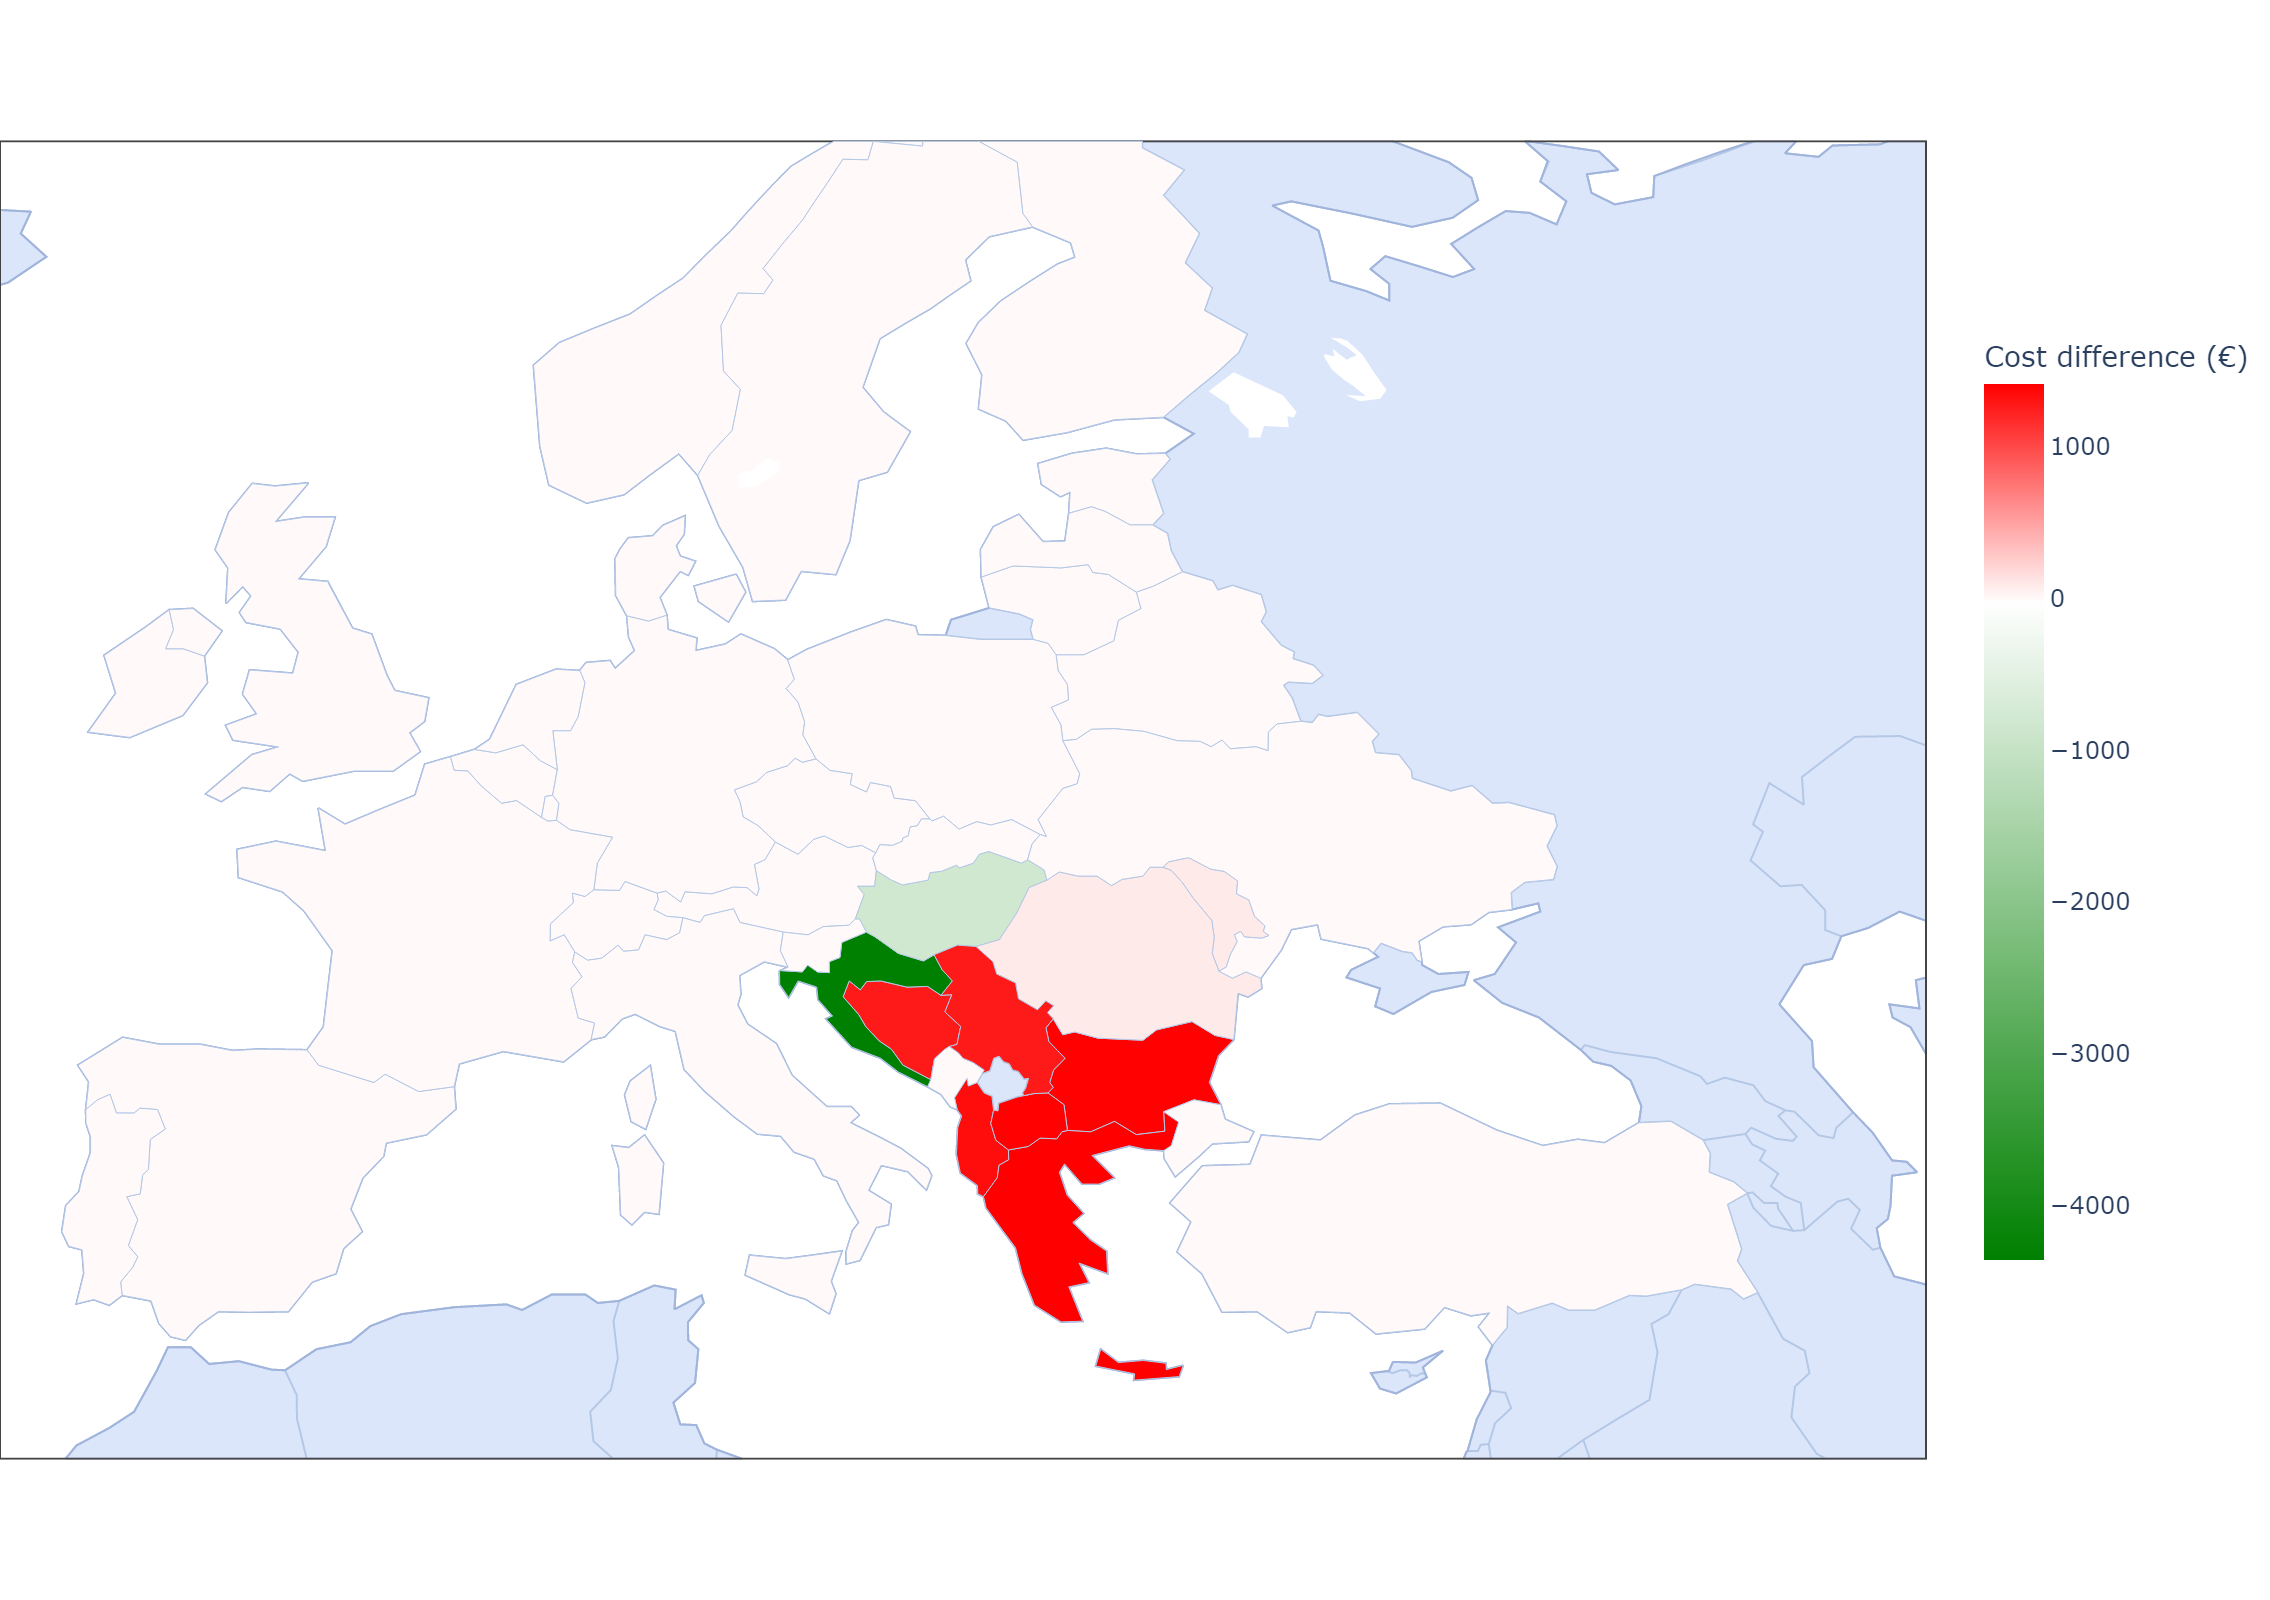
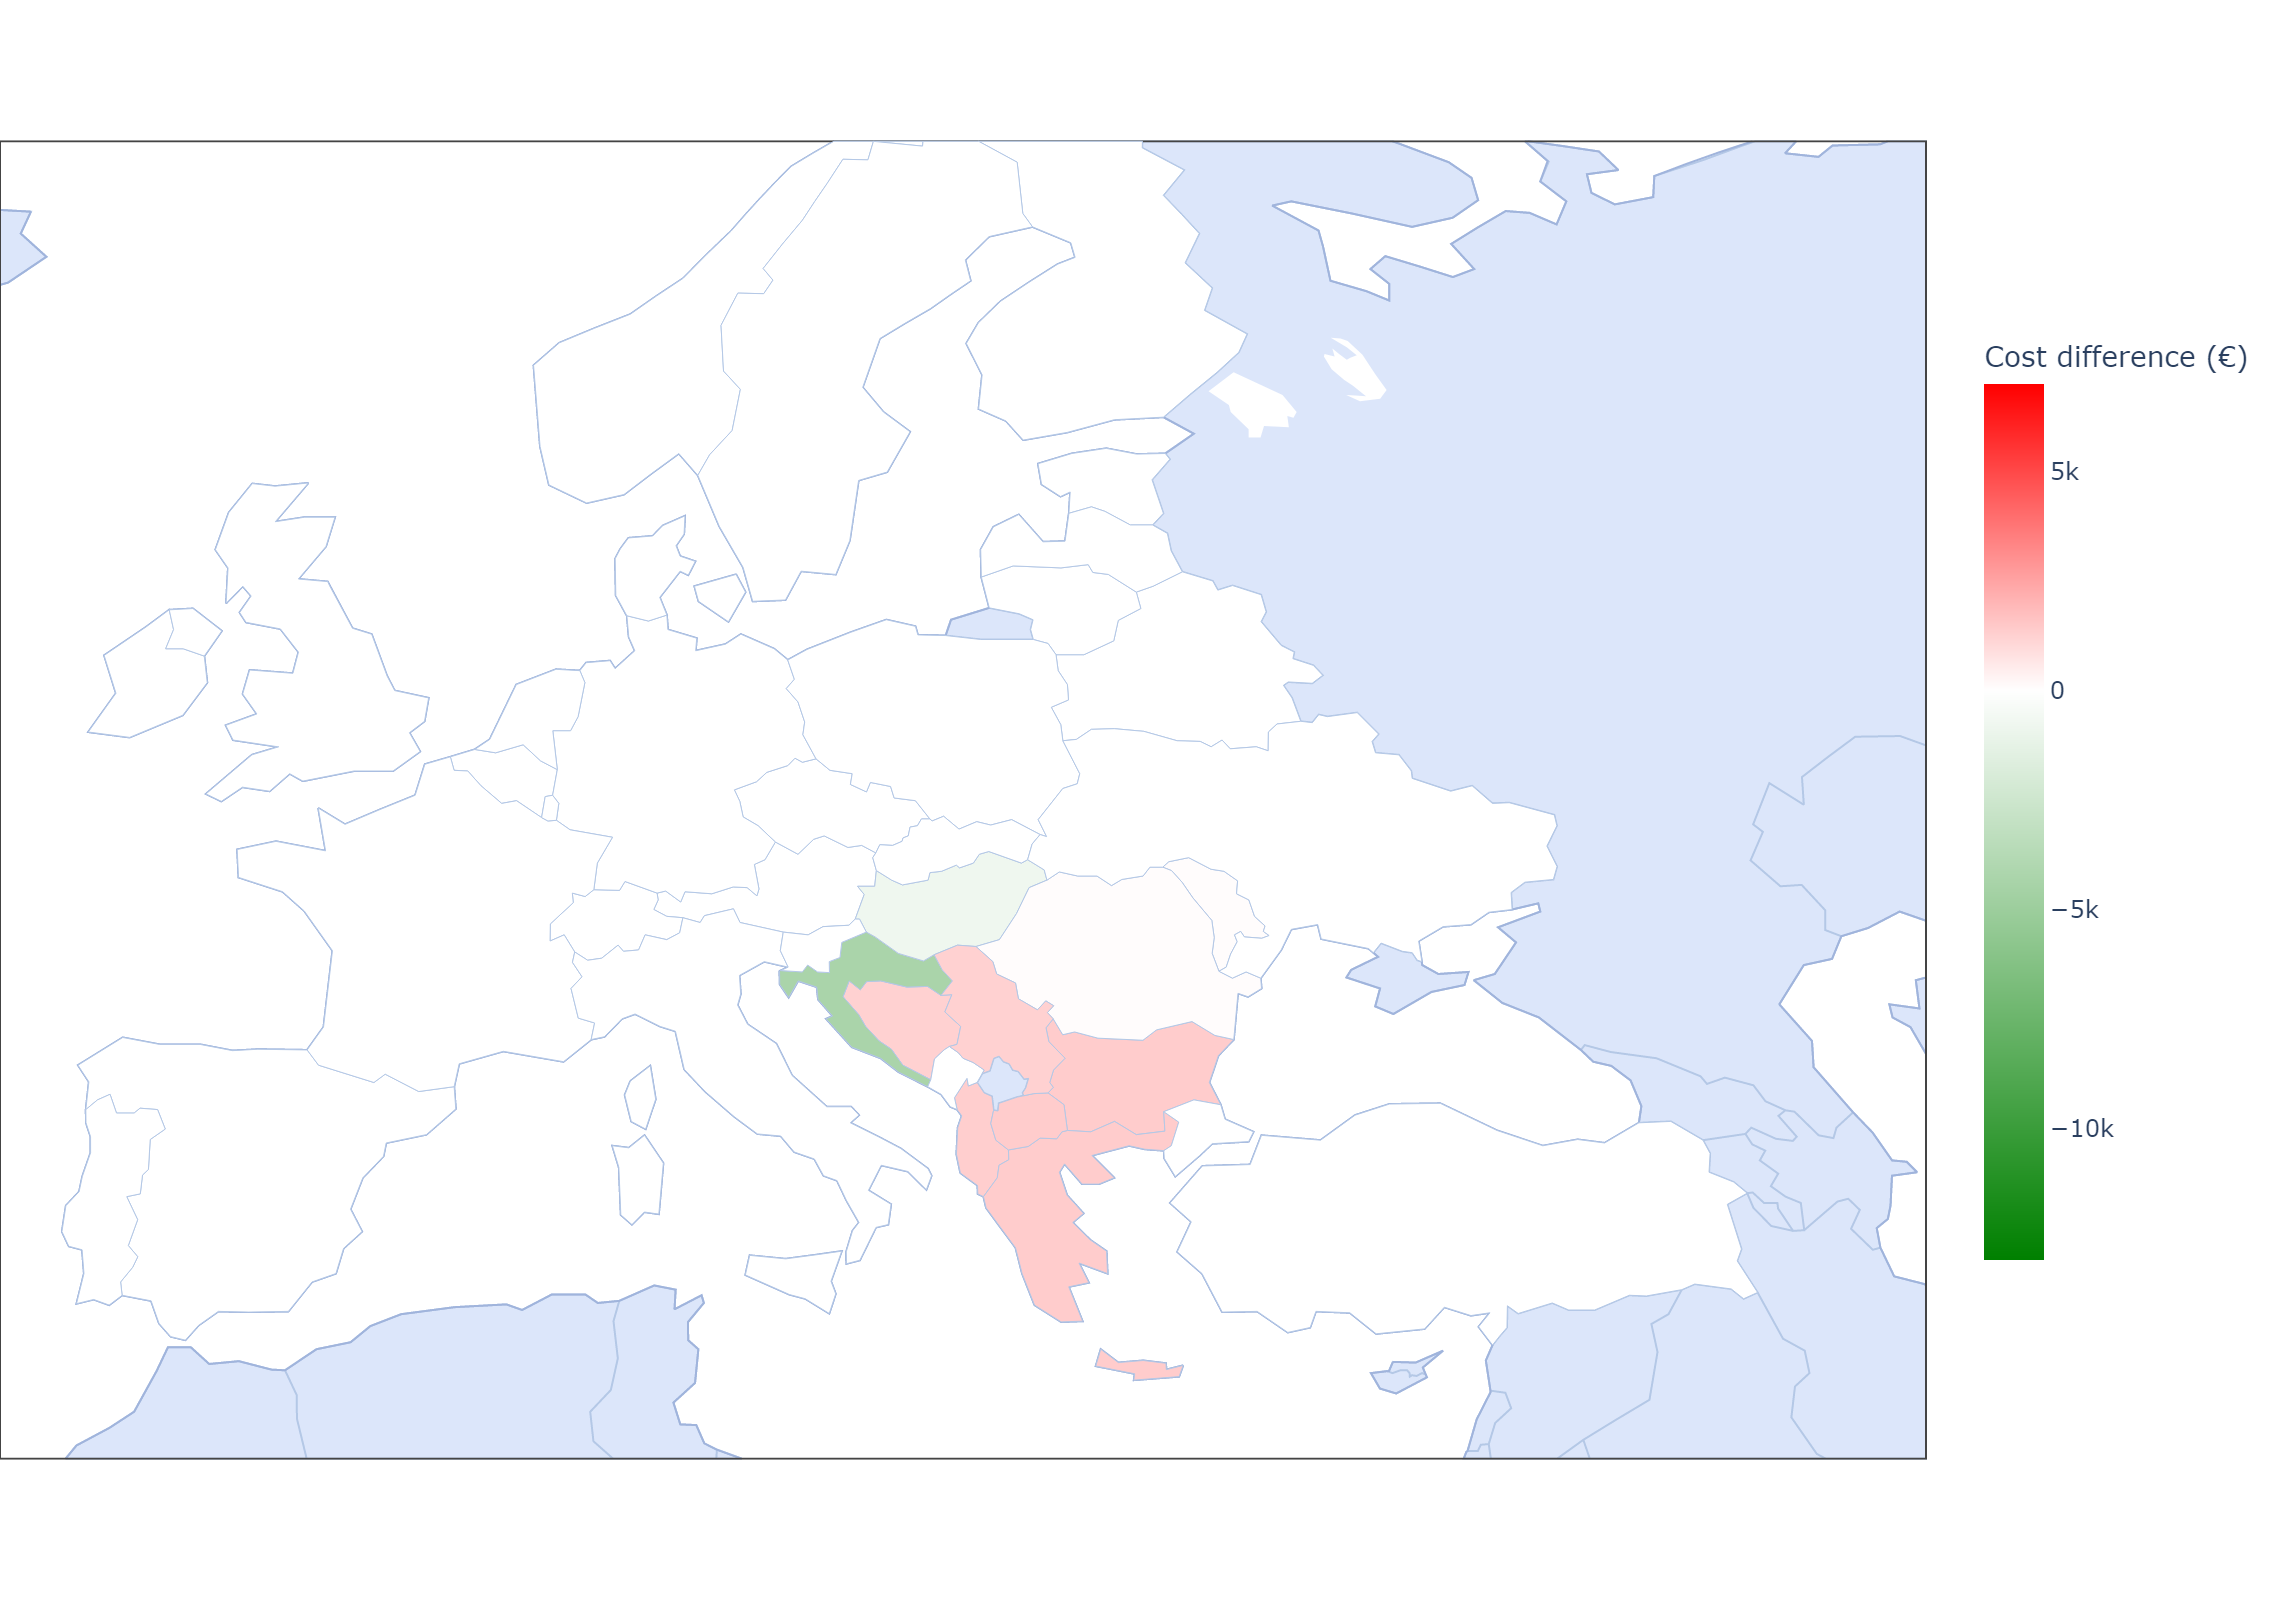
Updates on heatmaps and cost difference

Changed region(s): [[0.3392, 0.5312, 0.5551, 0.8438], [0.8634, 0.2812, 0.9251, 0.5312], [0.4934, 0.8438, 0.5242, 0.875]]

diff --git a/00_code_base/08_output_preparation/plot_visualization.py b/00_code_base/08_output_preparation/plot_visualization.py
@@ -6,13 +6,13 @@ import matplotlib.pyplot as plt
 import plotly.graph_objects as go
 from plotly.subplots import make_subplots
 
-os.chdir(r"C:\Users\flv.eco\OneDrive - CBS - Copenhagen Business School\Documents\03_LNG_Cap\hydrogen_grid\00_code_base\08_output_preparation")
+# os.chdir(r"C:\Users\flv.eco\OneDrive - CBS - Copenhagen Business School\Documents\03_LNG_Cap\hydrogen_grid\00_code_base\08_output_preparation")
 from output_visualization_functions import *
 from LNG_external_imports_functions import *
 from year_difference_functions import *
 
-base_path =r"C:\Users\flv.eco\OneDrive - CBS - Copenhagen Business School\Documents\03_LNG_Cap\hydrogen_grid"
-# base_path = r"C:\Users\mar.eco\OneDrive - CBS - Copenhagen Business School\Desktop\hydrogen_grid"
+# base_path =r"C:\Users\flv.eco\OneDrive - CBS - Copenhagen Business School\Documents\03_LNG_Cap\hydrogen_grid"
+base_path = r"C:\Users\mar.eco\OneDrive - CBS - Copenhagen Business School\Desktop\hydrogen_grid"
 #
 
 # Import this for save funcroin to work
@@ -217,13 +217,13 @@ if save_flow_invest:
 
 
 data_path = os.path.join(base_path, "01_data", "02_output_data", "02_unidirectional_results", "01_paper_IAEE", "02_prepared_results")
-scenario = "2024_plus_no_USA"
-full_name = "costs_shares_IAEE_2025_run_2024_plus_no_USA"
-input_file_cost = os.path.join(data_path, "costs_shares_IAEE_2025_run_2024_plus_no_USA.xlsx")
+scenario = "2035_AP_to_SP"
+full_name = "costs_shares_IAEE_2025_run_2035_AP"
+input_file_cost = os.path.join(data_path, "costs_shares_IAEE_2025_run_2035_AP.xlsx")
 
 file_cost_difference_2021 = os.path.join(data_path, "cost_shares_differences_to_2021.xlsx")
 file_cost_difference_2024 = os.path.join(data_path, "cost_shares_differences_to_2024.xlsx")
-ile_cost_difference_2035 = os.path.join(data_path, "cost_shares_differences_to_2035_SP.xlsx")
+file_cost_difference_2035 = os.path.join(data_path, "cost_shares_differences_to_2035_SP.xlsx")
 
 # plot_cost_map(input_file_cost, scenario, base_path, False)
-plot_cost_difference(file_cost_difference_2024, full_name, scenario, base_path, True)
+plot_cost_difference(file_cost_difference_2035, full_name, scenario, base_path, True)
